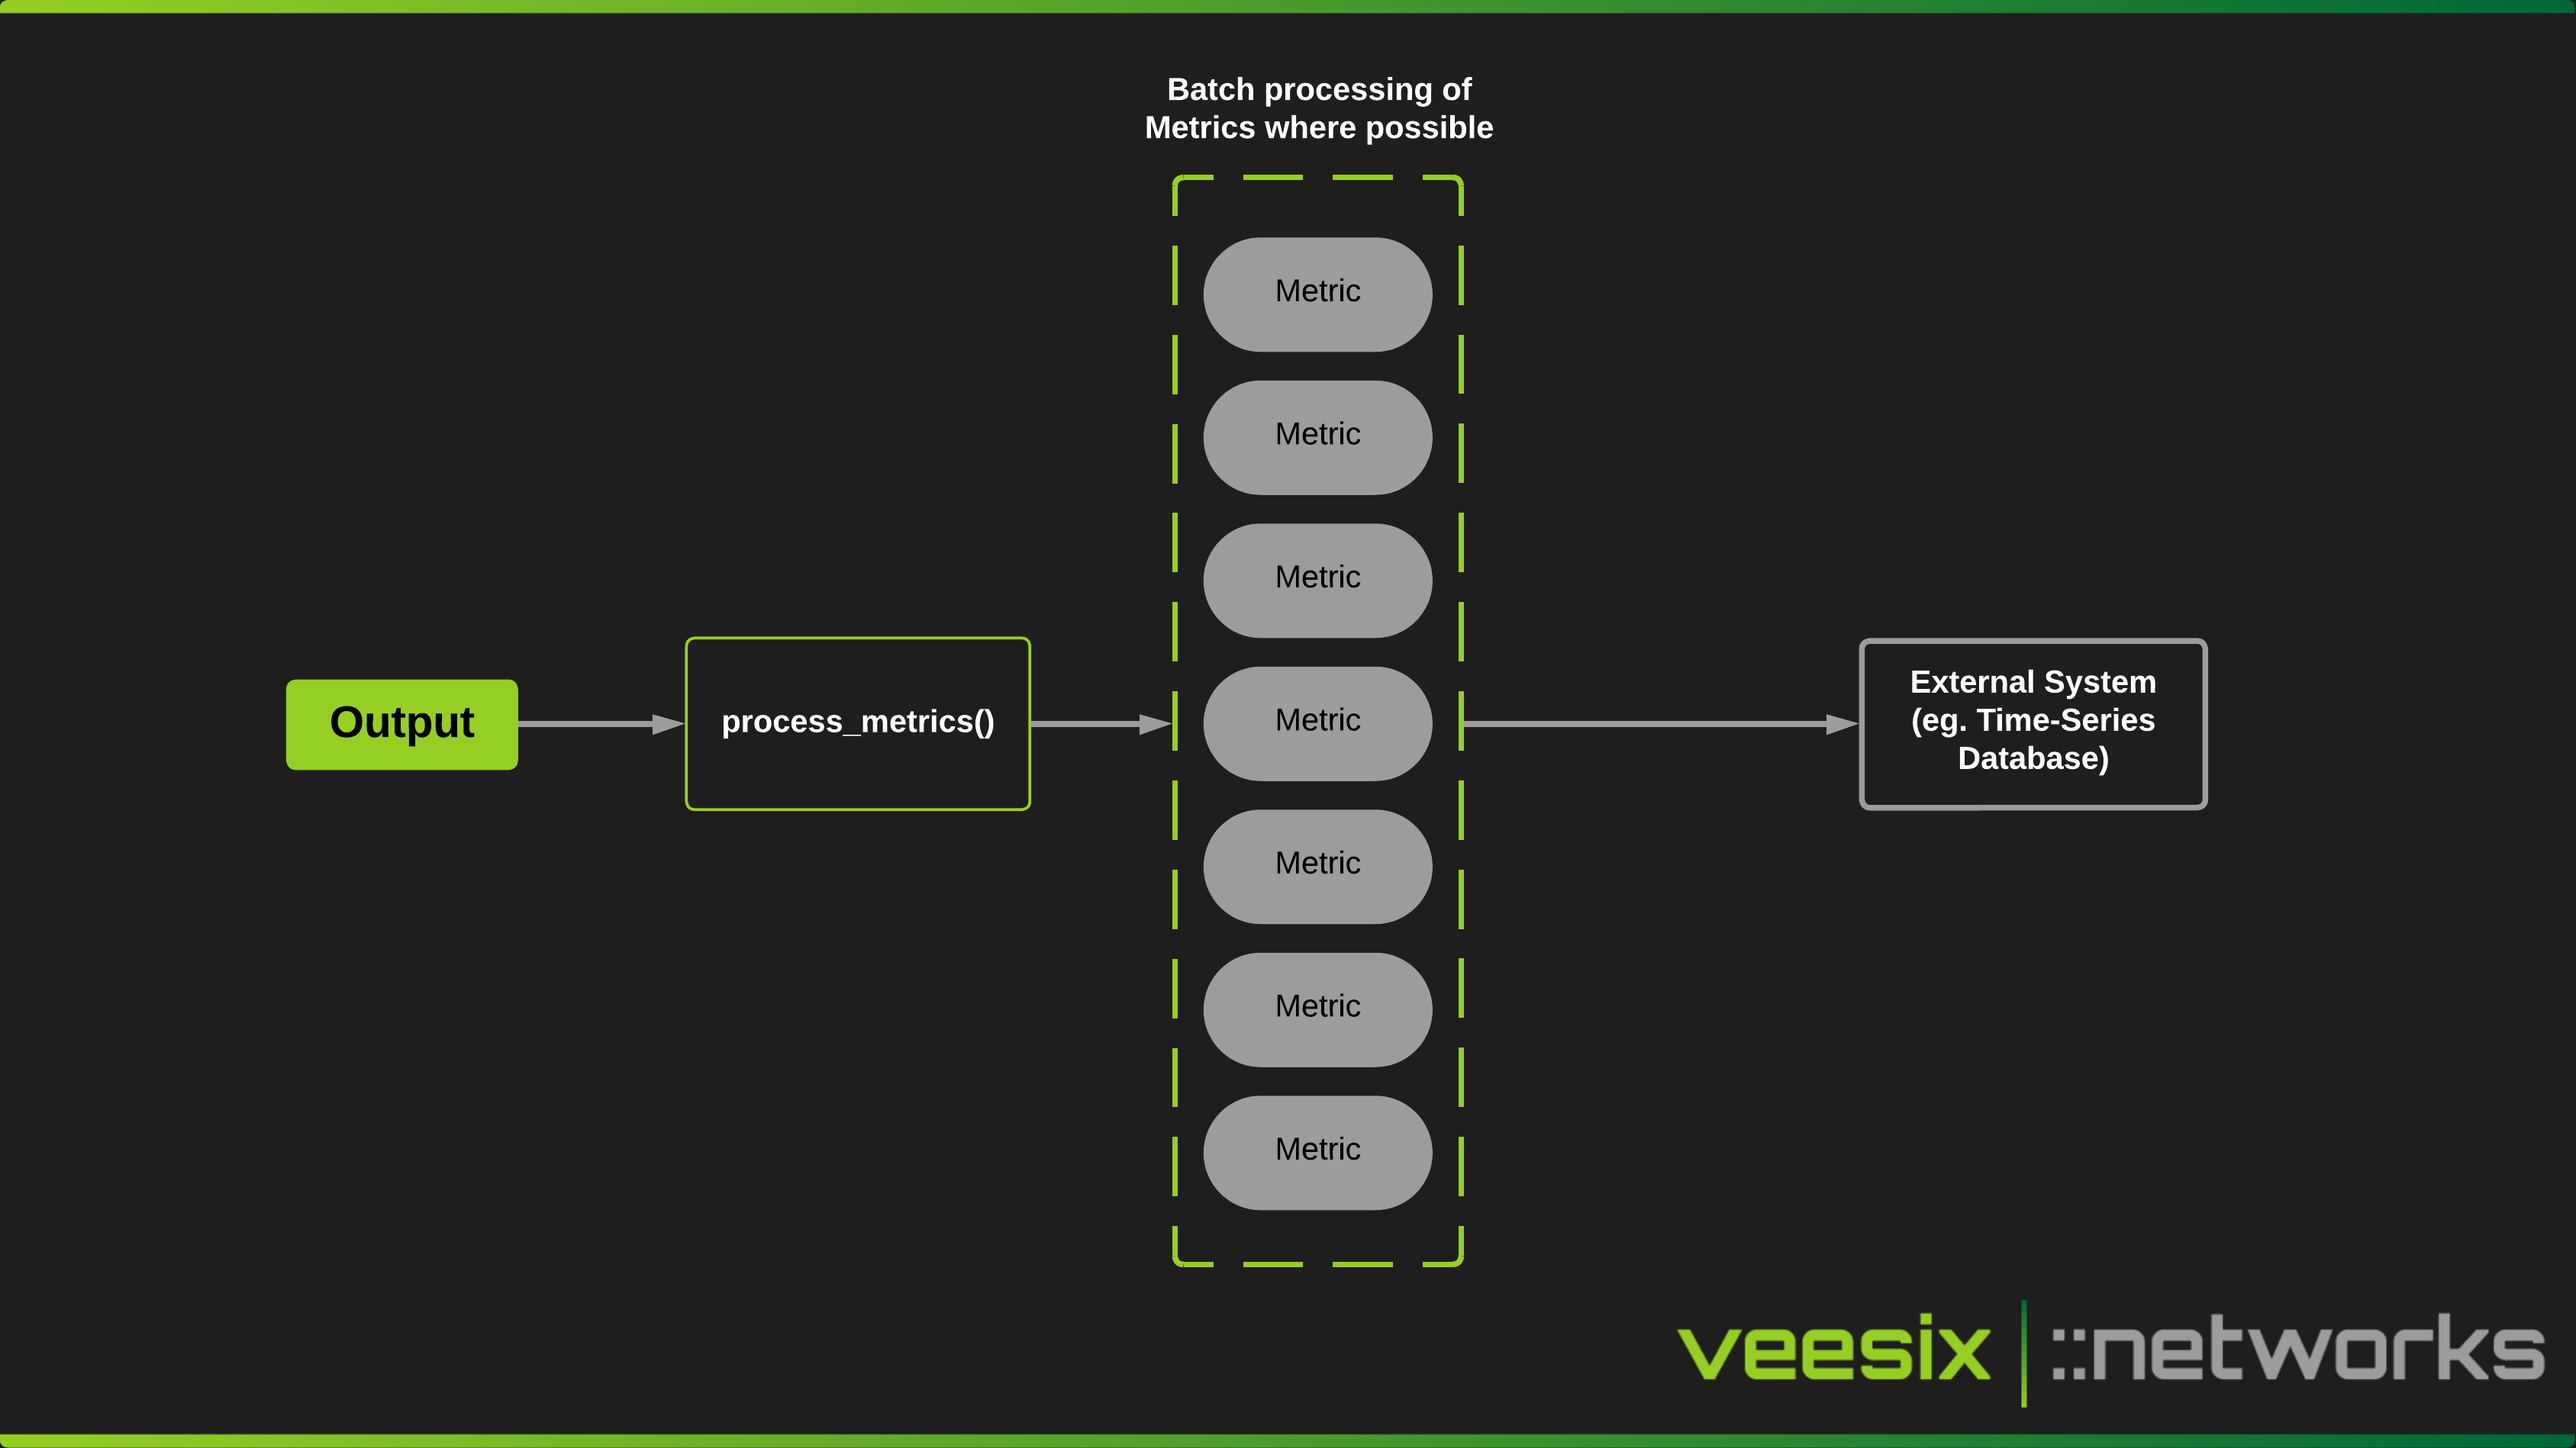
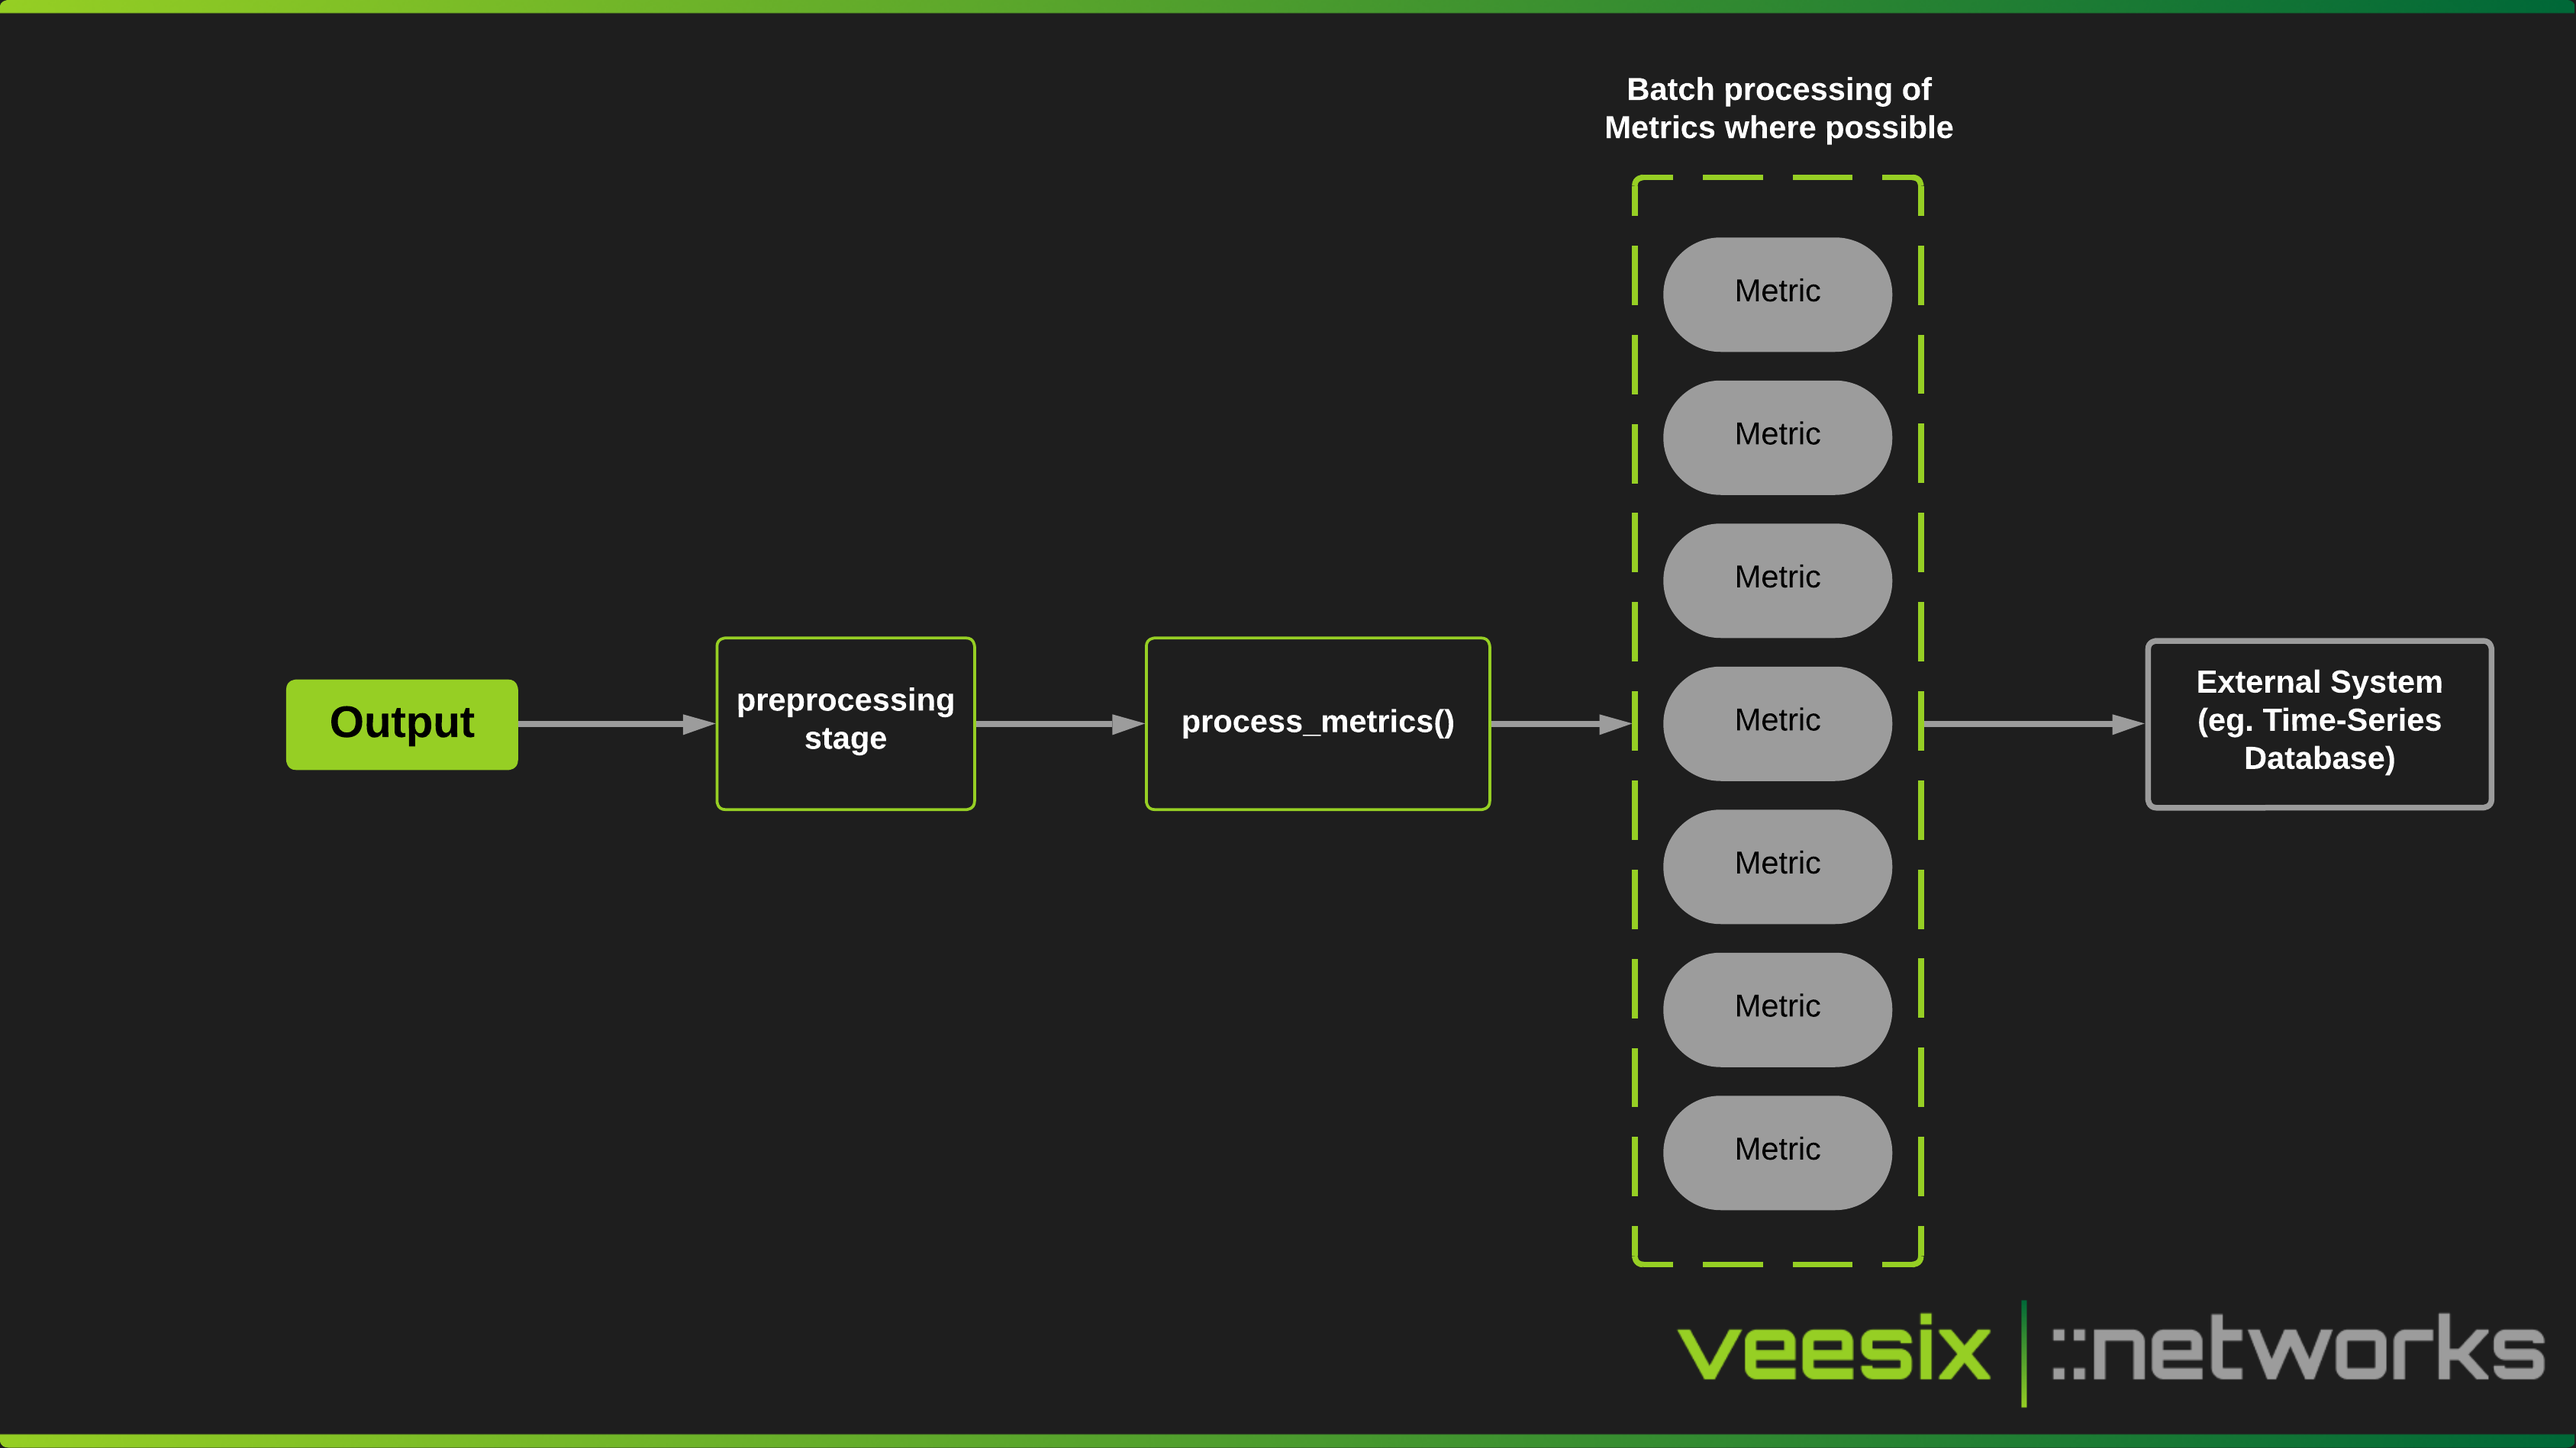
Preprocessor and fixed grafana dashboard (#18) (#19)
* v1.0.0 release for radius_collector and cleanup

* Grafana fixed and bump for dockerhub images

* Change prometheus back to localhost

* Bumped images and updated docs

diff --git a/docs/architecture/consumers.md b/docs/architecture/consumers.md
@@ -36,13 +36,33 @@ outputs:
       database: "cgnat"
       batch_size: 30000
 
-  # Example HTTP Output
-  # - type: "cgn_ec_consumer.outputs.http.HTTPOutput"
-  #   options:
-  #     url: "http://example.com/api/metrics"
-  #     headers:
-  #       Authorization: "Bearer token123"
-  #     timeout: 10
+    # Example HTTP Output
+    # - type: "HTTPWebhookOutput"
+    #   options:
+    #     url: "http://some-api/test"
+    #     headers:
+    #       x-api-key: default-change-me
+    #     timeout: 10
+    #   preprocessors:
+    #     - name: filter_keys
+    #       arguments:
+    #         keys:
+    #           - src_ip
+    #           - src_port
+    #           - x_ip
+    #           - x_port
+    #           - timestamp
+    #           - dst_ip
+    #           - dst_port
+    #           - event
+    #     - name: match_kvs
+    #       arguments:
+    #         kvs:
+    #           src_ip: 192.168.3.30
+    #     - name: key_exists
+    #       arguments:
+    #         key: dst_port
+    #         ignore_none: true
 ```
 
 ### JSON
@@ -69,8 +89,51 @@ outputs:
         "password": "password123",
         "database": "cgnat",
         "batch_size": 30000
-      }
+      },
+      "preprocessors": [
+        {
+          "name": "filter_keys",
+          "arguments": {
+            "keys": [
+              "src_ip",
+              "src_port",
+              "x_ip",
+              "x_port",
+              "timestamp",
+              "dst_ip",
+              "dst_port",
+              "event",
+              "type"
+            ]
+          }
+        },
+        {
+          "name": "match_kvs",
+          "arguments": {
+            "kvs": {
+              "src_ip": "192.168.1.20",
+              "type": "session-mapping"
+            }
+          }
+        }
+      ]
     }
   ]
 }
 ```
+
+## Parameters
+
+| Parameter                   | Description                           |
+| --------------------------- | ------------------------------------- | 
+| kafka_bootstrap_servers     | Kafka Server for consuming all events |
+| kafka_group_id              | ID for the consumer group             |
+| kafka_max_records_poll      | How many records are pulled           |
+| config_file                 | Only set outside the configuration to reference config file path    |
+| batch_size                  | TimeScaleDB Batch insert size         |
+| handler.type                | Handler class for processing events   |
+| handler.options             | Options passed to Handler init        |
+| outputs[i].type                | Output class for processing output logic |
+| outputs[i].options             | Output Options passed to Output init  |
+| outputs[i].preprocessors[i].name  | Name of Preprocessor                  |
+| outputs[i].preprocessors[i].arguments | Arguments passed to Preprocessor init |

diff --git a/docs/architecture/preprocessors.md b/docs/architecture/preprocessors.md
@@ -1,0 +1,91 @@
+A preprocessor is a piece of logic attached to an output, which runs prior to processing the metrics. Some examples would include filtering specific keys on a metric or matching a specific key/value pair.
+
+## Generic preprocessors
+
+### filter_keys
+
+Filters a metric for specific keys and only returns those keys specified.
+
+```yaml title="config.yaml" hl_lines="9-20"
+  # Example HTTP Output
+  outputs:
+  - type: "HTTPWebhookOutput"
+    options:
+      url: "http://10.4.21.133:3013/test"
+      headers:
+        x-api-key: default-change-me
+      timeout: 10
+    preprocessors:
+      - name: filter_keys
+        arguments:
+          keys:
+            - src_ip
+            - src_port
+            - x_ip
+            - x_port
+            - timestamp
+            - dst_ip
+            - dst_port
+            - event
+```
+
+### match_kv
+
+Filters metrics that only match the specific key/value pair.
+
+```yaml title="config.yaml" hl_lines="9-13"
+  # Example HTTP Output
+  outputs:
+  - type: "HTTPWebhookOutput"
+    options:
+      url: "http://10.4.21.133:3013/test"
+      headers:
+        x-api-key: default-change-me
+      timeout: 10
+    preprocessors:
+      - name: match_kv
+        arguments:
+          key: src_ip
+          value: 100.64.22.31
+```
+
+### match_kvs
+
+Like `match_kv`, but allows you to match multiple key/value pairs. If one doesn't exist then the metric is dropped.
+
+```yaml title="config.yaml" hl_lines="9-14"
+  # Example HTTP Output
+  outputs:
+  - type: "HTTPWebhookOutput"
+    options:
+      url: "http://10.4.21.133:3013/test"
+      headers:
+        x-api-key: default-change-me
+      timeout: 10
+    preprocessors:
+      - name: match_kvs
+        arguments:
+          kvs:
+            src_ip: 100.64.22.31
+            dst_port: 443
+```
+
+### key_exists
+
+Filters metrics that have a specific key, by default if the key is `None` then the metric is dropped.
+
+```yaml title="config.yaml" hl_lines="9-13"
+  # Example HTTP Output
+  outputs:
+  - type: "HTTPWebhookOutput"
+    options:
+      url: "http://10.4.21.133:3013/test"
+      headers:
+        x-api-key: default-change-me
+      timeout: 10
+    preprocessors:
+      - name: key_exists
+        arguments:
+          key: dst_port
+          ignore_none: true
+```

diff --git a/docs/architecture/outputs.md b/docs/architecture/outputs.md
@@ -13,3 +13,13 @@ Time-series based database built around PostGRES. This is our preferred output w
 ### HTTP
 
 HTTP based webhook where you can configure specific matches (eg. on a certain x_ip) and send a HTTP request to a configured endpoint.
+
+## Preprocessors
+
+Preprocessors can be attached to an output to perform logic such as filtering specific keys or checking a certain key/value pair exist. Here are some scenarios where you could apply a preprocessor to a relevant output:
+
+- You need to filter a few fields and specifically target a `src_ip` of `100.64.22.13` and the `dst_port` field must exist, then send this to a HTTP API for further processing. In this scenario you can use the `HTTPWebhookOutput` output combined with the `filter_keys`, `match_kvs` and `key_exists` preprocessors.
+- You need to send events for a specific `src_ip` to a Kafka queue for further processing. In this scenario you can use the `KafkaOutput` output combined with the `match_kvs` preprocessor.
+- You need to temporarily drop any metrics with a specific `dst_ip` and `dst_port`. You can use the `BlackholeOutput` output combined with the `match_kvs` preprocessor.
+
+You can view [more details on preprocessors here](./preprocessors.md).
